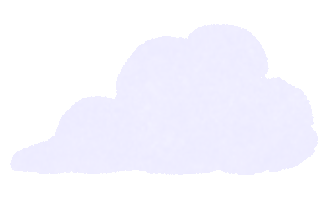
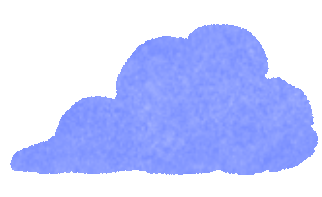
Add files via upload

diff --git a/index.html b/index.html
@@ -27,9 +27,7 @@
   <meta name="twitter:description" content="景色を歩くように、Snow Manの楽曲と出会う。個人制作による非公式ファンメイド・ミュージックガイド。" />
   <meta name="twitter:image" content="https://mado0415.github.io/snow-map/snow-map-share.png?v=2" />
   <meta name="twitter:image:alt" content="SNOW MAP — an unofficial fanmade music guide for Snow Man" />
-  <!-- SNOW MAP v0.13.206: iOS Safariで地点到着後の地図倍率を固定し、transformによるページ横幅再計算を抑制 -->
-  <!-- SNOW MAP v0.13.205: 地点表示のカード幅・ズーム・ぼかしを正常だった旧実装へロールバック。時間帯境界変更は維持 -->
-  <!-- SNOW MAP v0.13.204: 時間帯境界を4:00/16:00/18:00/19:00/2:00へ変更し、地点カード幅・ズーム・Safariぼかしを再修正 -->
+  <!-- SNOW MAP v0.13.207: 通常夜マップ更新／時間帯別の流れる雲を指定画像＋各マップ最下部雲へ統一／時間帯境界更新 -->
   <!-- SNOW MAP v0.13.203: iOS Safari地点表示のカード幅・背景ぼかし・ズーム処理を安定版へ修正 -->
   <!-- SNOW MAP v0.13.202: 雨の夕方・夕暮れマップ更新／雪の小雲を透過済み雪マップから再切り出し -->
   <!-- SNOW MAP v0.13.201: 開発モードの地点移動中はQAパネルを退避し、通常時と同じズーム・カード描画条件に修正 -->
@@ -70,9 +68,6 @@
     html {
       margin: 0;
       min-height: 100%;
-      width: 100%;
-      max-width: 100%;
-      overflow-x: hidden;
       background: var(--world-bottom);
       transition: background-color .9s linear;
     }
@@ -80,8 +75,6 @@
       margin: 0;
       min-height: 100svh;
       min-height: 100dvh;
-      width: 100%;
-      max-width: 100%;
       position: relative;
       background: transparent;
       color: var(--ink);
@@ -192,6 +185,16 @@
       -webkit-tap-highlight-color: transparent;
       transition: opacity .18s ease, transform .18s ease;
     }
+    body.sheet-open .app {
+      filter: blur(2.5px) saturate(.96);
+      transition: filter .24s ease;
+    }
+
+    body:not(.sheet-open) .app {
+      filter: none;
+      transition: filter .24s ease;
+    }
+
     body.sheet-open .guidebook-launcher {
       opacity: 0;
       pointer-events: none;
@@ -401,10 +404,6 @@
     }
     .map-stage.walking {
       transform: translate3d(var(--pan-x, 0px), var(--pan-y, 0px), 0) scale(1.38);
-    }
-    .map-stage.arrived {
-      transition: none !important;
-      transform: translate3d(var(--pan-x, 0px), var(--pan-y, 0px), 0) scale(1.38) !important;
     }
     .map-stage.strolling {
       transition-duration: 2.45s;
@@ -1302,8 +1301,8 @@ body.weather-snow .sky-stars {
     }
     .sheet-backdrop.open {
       background: rgba(28,40,51,.09);
-      -webkit-backdrop-filter: blur(2.5px) saturate(.96);
-      backdrop-filter: blur(2.5px) saturate(.96);
+      -webkit-backdrop-filter: none;
+      backdrop-filter: none;
       opacity: 1;
       visibility: visible;
       pointer-events: auto;
@@ -1315,7 +1314,7 @@ body.weather-snow .sky-stars {
       z-index: 21;
       left: 50%;
       bottom: max(10px, env(safe-area-inset-bottom));
-      width: min(calc(100% - 42px), 430px);
+      width: min(calc(100vw - 42px), 430px);
       max-height: calc(100svh - 92px);
       overflow-y: auto;
       overscroll-behavior: contain;
@@ -2758,16 +2757,16 @@ body.weather-snow .sky-stars {
   day:"snow-map-day.png?v=01418",
   evening:"snow-map-evening.png?v=01418",
   twilight:"snow-map-twilight.png?v=01420",
-  night:"snow-map-night.png?v=01422",
+  night:"snow-map-night.png?v=01423",
   midnight:"snow-map-midnight.png?v=01422"
 };
     const timeClouds={
-  morning:"snow-cloud-morning.png?v=01418",
-  day:"snow-cloud-day.png?v=01418",
-  evening:"snow-cloud-evening.png?v=01418",
-  twilight:"snow-cloud-evening.png?v=01418",
-  night:"snow-cloud-night.png?v=01418",
-  midnight:"snow-cloud-night.png?v=01418"
+  morning:{primary:"snow-cloud-morning.png?v=01423",bottom:"snow-cloud-bottom-morning.png?v=01423"},
+  day:{primary:"snow-cloud-day.png?v=01423",bottom:"snow-cloud-bottom-day.png?v=01423"},
+  evening:{primary:"snow-cloud-evening.png?v=01423",bottom:"snow-cloud-bottom-evening.png?v=01423"},
+  twilight:{primary:"snow-cloud-evening.png?v=01423",bottom:"snow-cloud-bottom-twilight.png?v=01423"},
+  night:{primary:"snow-cloud-night.png?v=01423",bottom:"snow-cloud-bottom-night.png?v=01423"},
+  midnight:{primary:"snow-cloud-night.png?v=01423",bottom:"snow-cloud-bottom-midnight.png?v=01423"}
 };
     const skyCloudImages=[...document.querySelectorAll("[data-sky-cloud]")];
     const WEATHER_VERSION="01422";
@@ -2818,10 +2817,6 @@ body.weather-snow .sky-stars {
     }
     function getTimeKeyForDate(date){
       const minute=date.getHours()*60+date.getMinutes();
-
-      // 4:00〜9:59 朝 / 10:00〜15:59 昼
-      // 16:00〜17:59 夕方 / 18:00〜18:59 夕暮れ
-      // 19:00〜1:59 夜 / 2:00〜3:59 深夜
       if(minute>=4*60 && minute<10*60) return "morning";
       if(minute>=10*60 && minute<16*60) return "day";
       if(minute>=16*60 && minute<18*60) return "evening";
@@ -2878,15 +2873,17 @@ body.weather-snow .sky-stars {
       return timeImages[timeKey] || timeImages.day;
     }
     function getSkyCloudSources(key, weatherKey=currentWeatherKey){
-      const base=timeClouds[key]||timeClouds.day;
-      if(weatherKey==="snow") return [base, weatherClouds.snow.cutout, base];
+      const cloudSet=timeClouds[key]||timeClouds.day;
+      const primary=cloudSet.primary;
+      const bottom=cloudSet.bottom;
+      if(weatherKey==="snow") return [primary, weatherClouds.snow.cutout, bottom];
       if(weatherKey==="rain"){
         const accent=(key==="evening" || key==="twilight" || key==="night" || key==="midnight")
           ? weatherClouds.rain.late
           : weatherClouds.rain.day;
         return [weatherClouds.rain.cutout, accent, weatherClouds.rain.cutout];
       }
-      return [base, base, base];
+      return [primary, bottom, primary];
     }
     function setSkyClouds(key){
       const srcs=getSkyCloudSources(key, currentWeatherKey);
@@ -4366,8 +4363,6 @@ body.weather-snow .sky-stars {
     }
     function showSong(place){
       currentPlace=place;
-      // iOS Safari: fixedカードを開く瞬間の再合成で地図倍率が戻らないよう到着状態を固定。
-      mapStage?.classList.add("walking","arrived");
       // カード表示ではSoundscapeを再起動しない。場所移動時の音をそのまま継続する。
       const data=places[place], song=nextSongFor(place);
       placeName.textContent=place;
@@ -4387,7 +4382,6 @@ body.weather-snow .sky-stars {
     function exploreCurrentPlace(){
       if(!currentPlace || isTransitioning) return;
       isTransitioning=true;
-      mapStage?.classList.remove("arrived");
       const song=nextSongFor(currentPlace);
       const beacon=getBeacon(currentPlace);
 
@@ -4487,7 +4481,7 @@ body.weather-snow .sky-stars {
       isZoomed=false;
       mapViewport?.classList.remove("zoomed");
       currentPlace=null;
-      mapStage?.classList.remove("walking","arrived");
+      mapStage?.classList.remove("walking");
       mapStage?.style.setProperty("--walk-x", "50%");
       mapStage?.style.setProperty("--walk-y", "50%");
       currentPanX=0;
@@ -4524,7 +4518,6 @@ body.weather-snow .sky-stars {
       const beacon=getBeacon(place);
       if(!beacon) return;
       isTransitioning=true;
-      mapStage?.classList.remove("arrived");
       mapViewport?.classList.add("zoomed");
       setFreeRoam(false);
       previousPlaceBeforeTravel=currentPlace;
@@ -4545,7 +4538,6 @@ body.weather-snow .sky-stars {
         stopFootsteps();
         finishDestinationPreview(place,previewToken);
         playArrivalSound(place);
-        mapStage?.classList.add("arrived");
         showSong(place);
         isTransitioning=false;
       },4850);
